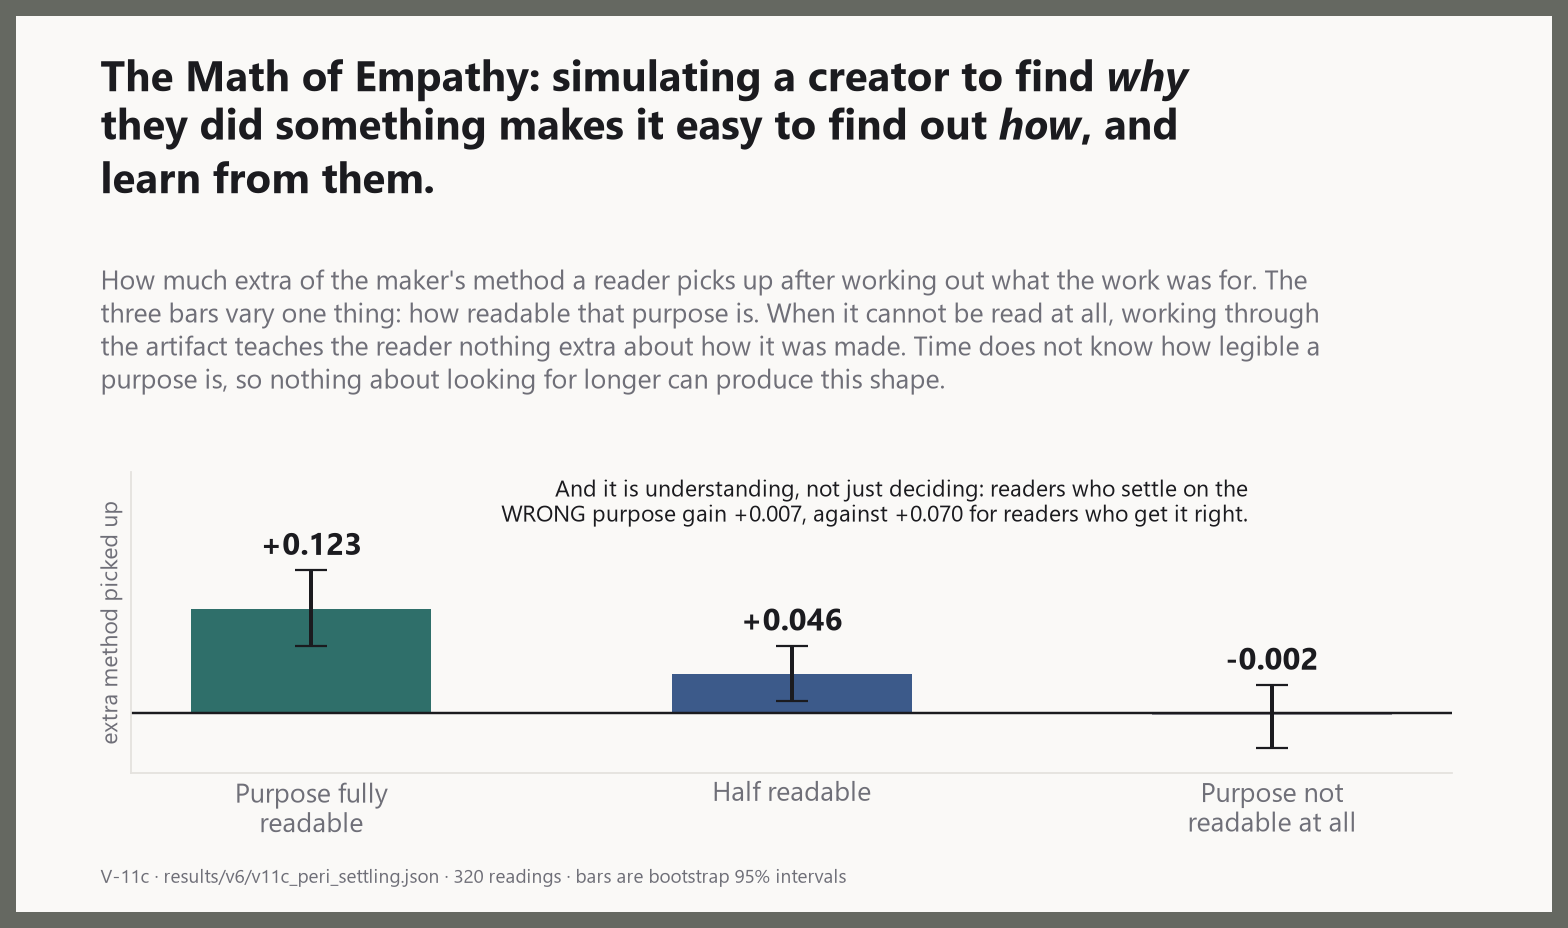
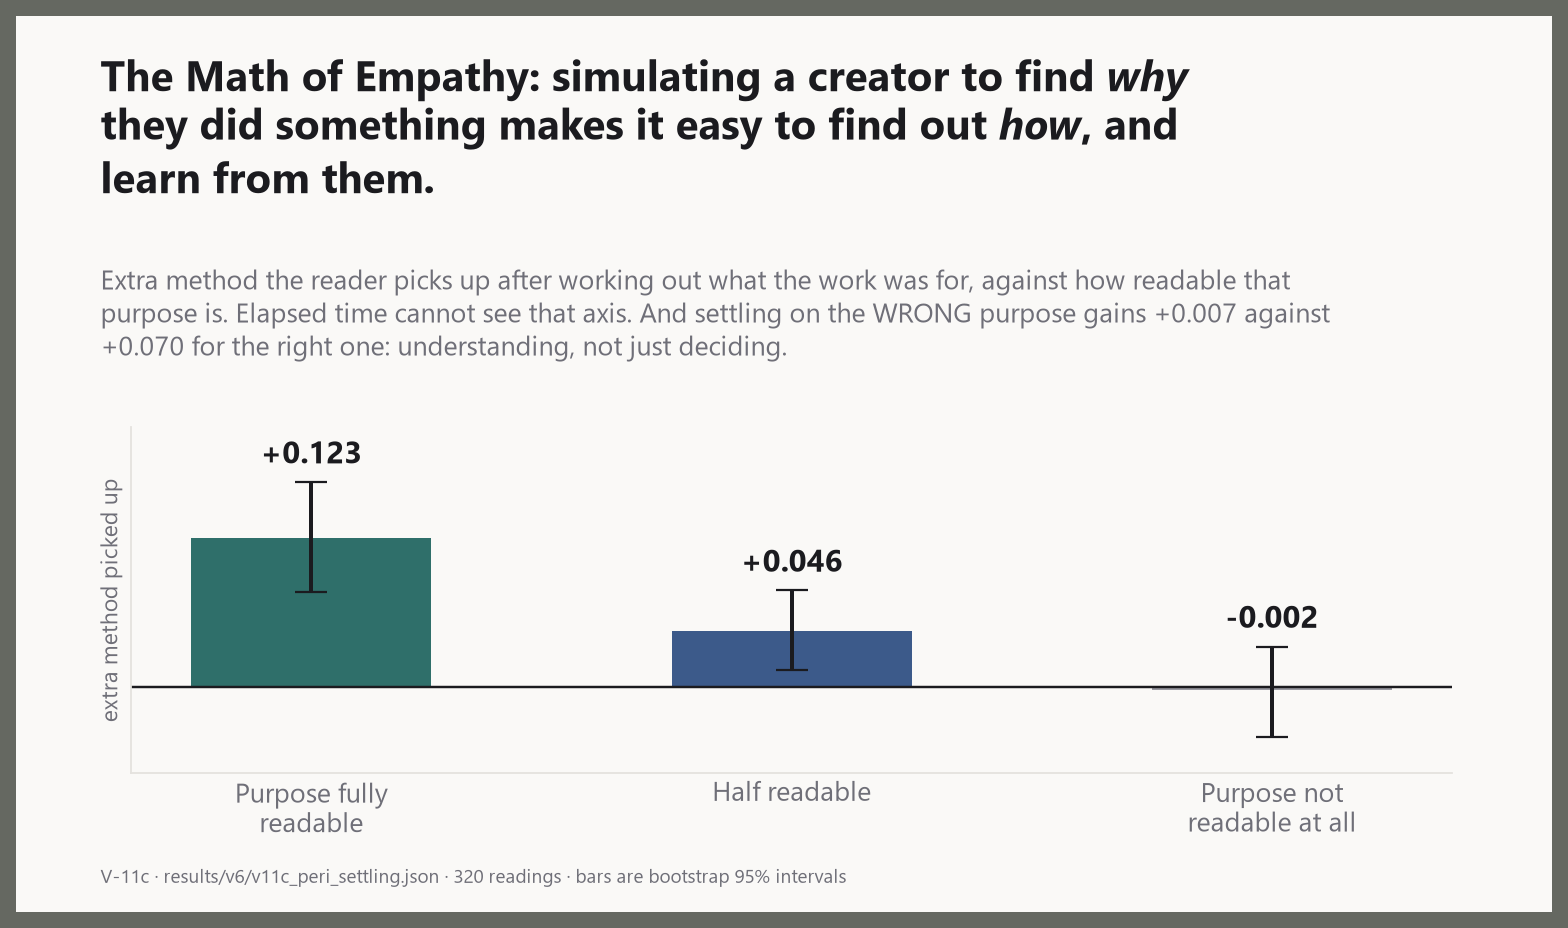
Plate 5 folds its in-chart claim into the subtitle and loses two lines
The understanding-not-deciding contrast was a separate black block sitting in
the plot. It belongs in the same breath as the dose-response, not beside it, so
it is now the second half of a two-and-a-half line subtitle and the chart is
just the three bars.

Carousel 2 reorders to 11, 05, 19, 24, 20: 05 moves up because the dose-response
is now the strongest picture in the set.

diff --git a/scripts/make_walkthrough_plates.py b/scripts/make_walkthrough_plates.py
@@ -299,11 +299,11 @@ def plate_05_intent_unlocks():
     fig, ax = plate(
         r"The Math of Empathy: simulating a creator to find $\it{why}$ they did something "
         r"makes it easy to find out $\it{how}$, and learn from them.",
-        "How much extra of the maker's method a reader picks up after working out what the work "
-        "was for. The three bars vary one thing: how readable that purpose is. When it cannot be "
-        "read at all, working through the artifact teaches the reader nothing extra about how it "
-        "was made. Time does not know how legible a purpose is, so nothing about looking for "
-        "longer can produce this shape.",
+        f"Extra method the reader picks up after working out what the work was for, against how "
+        f"readable that purpose is. Elapsed time cannot see that axis. And settling on the WRONG "
+        f"purpose gains {cw['settled_on_the_wrong_goal']:+.3f} against "
+        f"{cw['settled_on_the_right_goal']:+.3f} for the right one: understanding, not just "
+        f"deciding.",
         f"V-11c · results/v6/v11c_peri_settling.json · {v['n_rollouts']} readings · bars are "
         f"bootstrap 95% intervals",
         authored=True)
@@ -319,14 +319,9 @@ def plate_05_intent_unlocks():
     zero_line(ax)
     ax.set_xticks(xs)
     ax.set_xticklabels(labels[:len(order)], fontsize=12)
-    ax.set_ylim(min(los) - 0.03, max(his) + 0.115)
+    ax.set_ylim(min(los) - 0.03, max(his) + 0.045)
     clean_axis(ax, "extra method picked up")
     ax.set_yticks([])
-    annotate(ax, len(order) - 1.05, max(his) + 0.108,
-             "And it is understanding, not just deciding: readers who settle on the\n"
-             f"WRONG purpose gain {cw['settled_on_the_wrong_goal']:+.3f}, against "
-             f"{cw['settled_on_the_right_goal']:+.3f} for readers who get it right.",
-             color=INK, fontsize=10.5, ha="right", va="top")
     record(save(fig, "05_intent_unlocks_the_method"),
            "Intent is the key that makes the method readable. Not in the essay or the preprint, "
            "it came out of a conversation and then held.")
